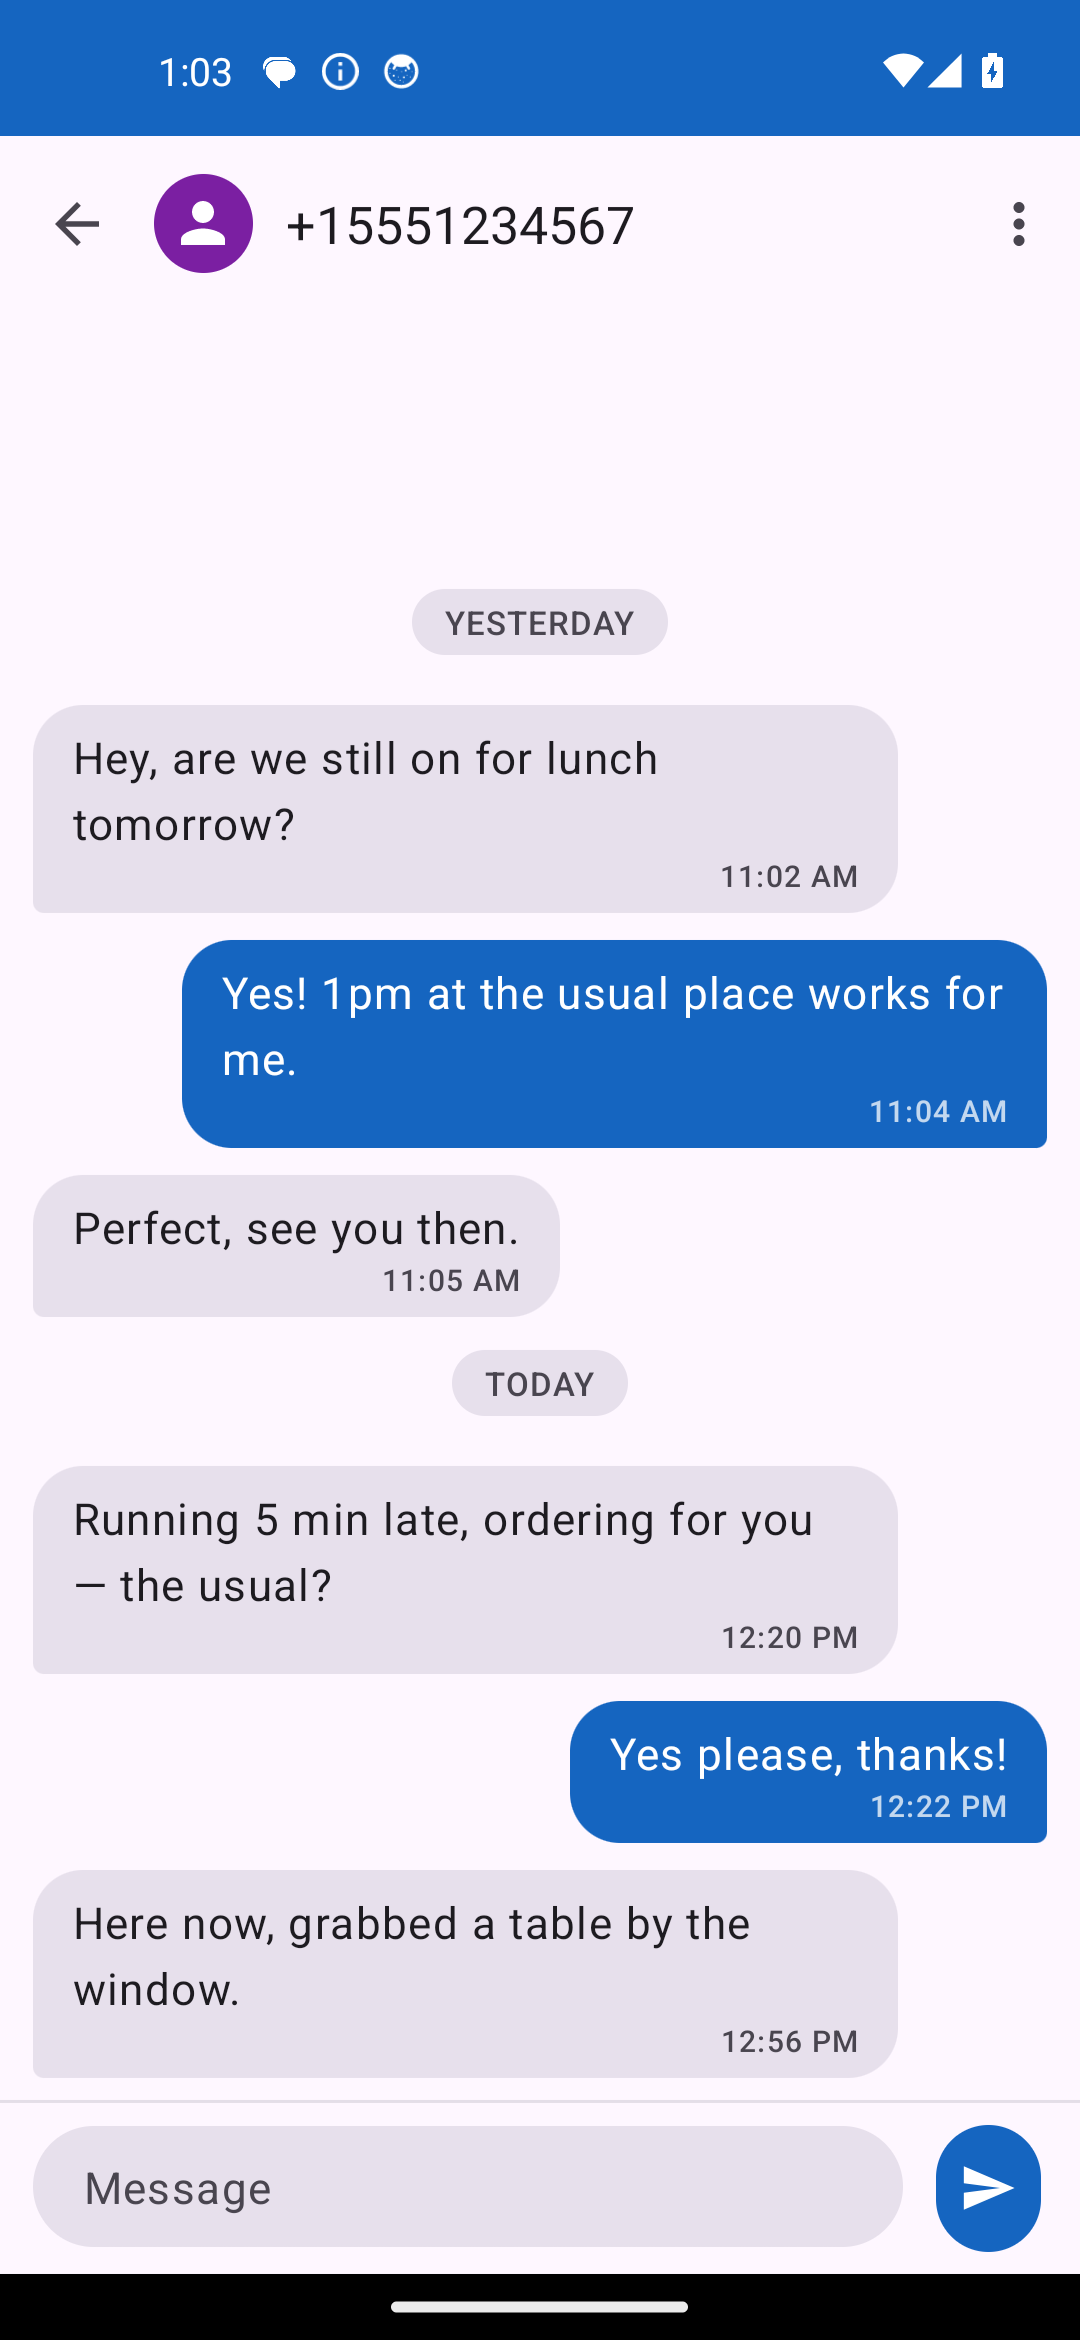
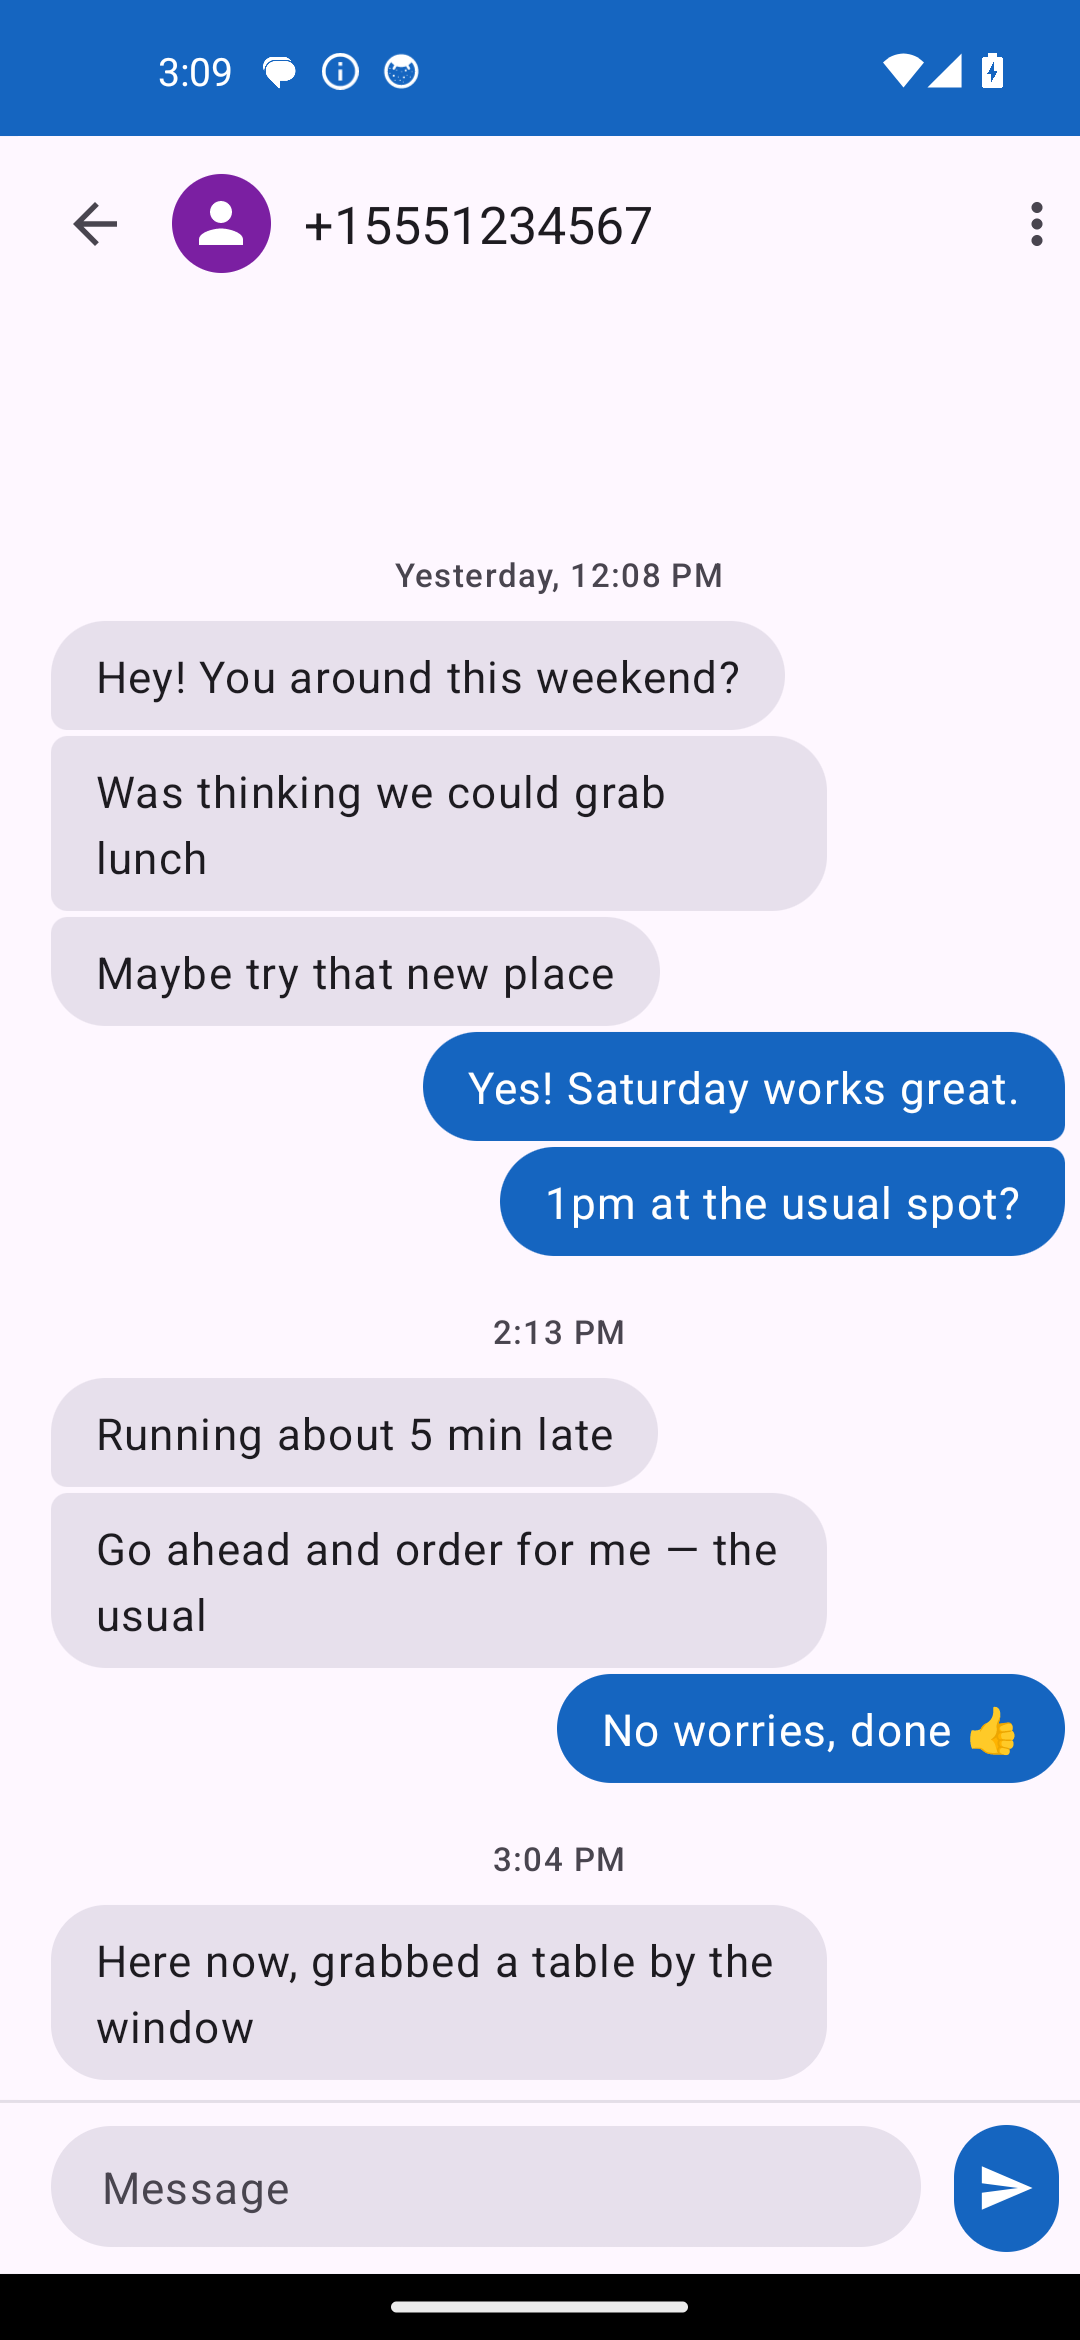
Rework the chat thread to a Google Messages style
- Consecutive same-side messages within a time cluster now group into one
  connected shape: the free side is fully rounded, and on the spine side only
  the first message rounds its top and the last rounds its bottom (corners
  built programmatically per message).
- A centered time separator ("Yesterday, 12:08 PM", "2:13 PM", …) starts each
  cluster — a new day or a gap over 15 min — replacing the timestamp that used
  to sit in every bubble.
- Larger radius, tighter in-group spacing; removed the now-unused static bubble
  drawables.

Bumps ippu to v1.21 (22).

diff --git a/app/src/main/kotlin/com/noti/logger/ui/ChatActivity.kt b/app/src/main/kotlin/com/noti/logger/ui/ChatActivity.kt
@@ -7,6 +7,7 @@ import android.content.ClipboardManager
 import android.content.Context
 import android.content.Intent
 import android.graphics.Color
+import android.graphics.drawable.GradientDrawable
 import android.os.Bundle
 import android.view.Gravity
 import android.view.LayoutInflater
@@ -15,11 +16,9 @@ import android.view.MenuItem
 import android.view.View
 import android.view.ViewGroup
 import android.widget.FrameLayout
-import android.widget.LinearLayout
 import android.widget.TextView
 import android.widget.Toast
 import androidx.appcompat.app.AppCompatActivity
-import androidx.core.graphics.ColorUtils
 import androidx.core.view.ViewCompat
 import androidx.core.view.WindowInsetsCompat
 import androidx.lifecycle.lifecycleScope
@@ -215,10 +214,14 @@ class ChatActivity : AppCompatActivity() {
             .show()
     }
 
-    /** A chat row is either a day separator or a message bubble. */
+    /** A chat row is either a centered time separator or a message bubble (with its group position). */
     private sealed interface Row {
-        data class Day(val label: String) : Row
-        data class Msg(val message: RelayedMessageEntity) : Row
+        data class Separator(val label: String) : Row
+        data class Msg(
+            val message: RelayedMessageEntity,
+            val firstInGroup: Boolean,
+            val lastInGroup: Boolean,
+        ) : Row
     }
 
     private inner class MessageAdapter : RecyclerView.Adapter<RecyclerView.ViewHolder>() {
@@ -227,19 +230,28 @@ class ChatActivity : AppCompatActivity() {
         /** When set, the matching row flashes once on bind then clears (notification deep-link). */
         var flashId: Long = -1L
 
-        /** Rebuilds the row list, inserting a day separator whenever the calendar day changes. */
+        /**
+         * Rebuilds the rows Google-Messages style: a centered time separator starts each cluster (new
+         * day or a gap over [CLUSTER_GAP_MS]); consecutive same-side messages inside a cluster are a
+         * "group" whose bubbles share connected corners.
+         */
         fun submit(messages: List<RelayedMessageEntity>) {
             rows.clear()
-            var lastAt = 0L
-            for (m in messages) {
-                if (rows.isEmpty() || !ChatTime.sameDay(lastAt, m.receivedAt)) {
-                    rows.add(Row.Day(ChatTime.daySeparator(this@ChatActivity, m.receivedAt)))
-                }
-                rows.add(Row.Msg(m))
-                lastAt = m.receivedAt
+            messages.forEachIndexed { i, m ->
+                val prev = messages.getOrNull(i - 1)
+                val next = messages.getOrNull(i + 1)
+                val newCluster = prev == null || startsNewCluster(prev, m)
+                if (newCluster) rows.add(Row.Separator(ChatTime.clusterHeader(this@ChatActivity, m.receivedAt)))
+                val firstInGroup = newCluster || prev!!.outgoing != m.outgoing
+                val lastInGroup = next == null || startsNewCluster(m, next) || next.outgoing != m.outgoing
+                rows.add(Row.Msg(m, firstInGroup, lastInGroup))
             }
             notifyDataSetChanged()
         }
+
+        private fun startsNewCluster(prev: RelayedMessageEntity, m: RelayedMessageEntity): Boolean =
+            !ChatTime.sameDay(prev.receivedAt, m.receivedAt) ||
+                (m.receivedAt - prev.receivedAt) > CLUSTER_GAP_MS
 
         fun rowIndexOfMessage(id: Long) =
             rows.indexOfFirst { it is Row.Msg && it.message.id == id }
@@ -247,12 +259,12 @@ class ChatActivity : AppCompatActivity() {
         override fun getItemCount() = rows.size
 
         override fun getItemViewType(position: Int) =
-            if (rows[position] is Row.Day) TYPE_DAY else TYPE_MSG
+            if (rows[position] is Row.Separator) TYPE_SEPARATOR else TYPE_MSG
 
         override fun onCreateViewHolder(parent: ViewGroup, viewType: Int): RecyclerView.ViewHolder {
             val inflater = LayoutInflater.from(parent.context)
-            return if (viewType == TYPE_DAY) {
-                DayVH(inflater.inflate(R.layout.item_date_header, parent, false))
+            return if (viewType == TYPE_SEPARATOR) {
+                SeparatorVH(inflater.inflate(R.layout.item_date_header, parent, false))
             } else {
                 MessageVH(inflater.inflate(R.layout.item_message, parent, false))
             }
@@ -260,53 +272,66 @@ class ChatActivity : AppCompatActivity() {
 
         override fun onBindViewHolder(holder: RecyclerView.ViewHolder, position: Int) {
             when (val row = rows[position]) {
-                is Row.Day -> (holder as DayVH).date.text = row.label
-                is Row.Msg -> {
-                    val prev = rows.getOrNull(position - 1)
-                    val grouped = prev is Row.Msg && prev.message.outgoing == row.message.outgoing
-                    bindMessage(holder as MessageVH, row.message, grouped)
-                }
+                is Row.Separator -> (holder as SeparatorVH).date.text = row.label
+                is Row.Msg -> bindMessage(holder as MessageVH, row)
             }
         }
     }
 
-    private fun bindMessage(holder: MessageVH, m: RelayedMessageEntity, groupedWithPrev: Boolean) {
+    private fun bindMessage(holder: MessageVH, row: Row.Msg) {
+        val m = row.message
         val outgoing = m.outgoing != 0
         holder.body.text = m.body
-        holder.time.text = ChatTime.clock(this, m.receivedAt)
-        holder.bubble.setBackgroundResource(if (outgoing) R.drawable.bubble_out else R.drawable.bubble_in)
-        (holder.bubble.layoutParams as FrameLayout.LayoutParams).gravity =
+
+        val metrics = resources.displayMetrics
+        holder.body.maxWidth = (metrics.widthPixels * 0.80f).toInt() - (32f * metrics.density).toInt()
+        (holder.body.layoutParams as FrameLayout.LayoutParams).gravity =
             if (outgoing) Gravity.END else Gravity.START
 
-        // Cap the bubble to ~80% of the screen (LinearLayout ignores maxWidth, so bound the text).
-        val metrics = resources.displayMetrics
-        holder.body.maxWidth = (metrics.widthPixels * 0.80f).toInt() - (28f * metrics.density).toInt()
-
-        // Tighter spacing within a run from the same side, more air when the side changes.
-        val h = (12f * metrics.density).toInt()
-        val topGap = ((if (groupedWithPrev) 2f else 8f) * metrics.density).toInt()
-        holder.itemView.setPadding(h, topGap, h, (2f * metrics.density).toInt())
-
-        // On the accent outgoing bubble, text is white; incoming uses on-surface tones.
-        val bodyColor = MaterialColors.getColor(
+        val fill = MaterialColors.getColor(
+            holder.body,
+            if (outgoing) com.google.android.material.R.attr.colorPrimary
+            else com.google.android.material.R.attr.colorSurfaceVariant,
+        )
+        val text = MaterialColors.getColor(
             holder.body,
             if (outgoing) com.google.android.material.R.attr.colorOnPrimary
             else com.google.android.material.R.attr.colorOnSurface,
         )
-        val timeColor = MaterialColors.getColor(
-            holder.time,
-            if (outgoing) com.google.android.material.R.attr.colorOnPrimary
-            else com.google.android.material.R.attr.colorOnSurfaceVariant,
-        )
-        holder.body.setTextColor(bodyColor)
-        holder.time.setTextColor(if (outgoing) ColorUtils.setAlphaComponent(timeColor, 190) else timeColor)
+        holder.body.setTextColor(text)
+        holder.body.background = groupedBubble(outgoing, row.firstInGroup, row.lastInGroup, fill)
 
-        holder.bubble.setOnLongClickListener { onMessageLongPress(m); true }
+        holder.body.setOnLongClickListener { onMessageLongPress(m); true }
         if (m.id == adapter.flashId) {
             adapter.flashId = -1L
             flash(holder.itemView)
         } else {
             holder.itemView.setBackgroundColor(Color.TRANSPARENT)
+        }
+    }
+
+    /**
+     * Builds a bubble background whose corners connect within a same-side group: the "free" side is
+     * always fully rounded; on the spine side, the top rounds only for the first message and the
+     * bottom only for the last, so a run of messages reads as one shape (Google Messages).
+     */
+    private fun groupedBubble(outgoing: Boolean, first: Boolean, last: Boolean, fill: Int): GradientDrawable {
+        val d = resources.displayMetrics.density
+        val big = 20f * d
+        val small = 6f * d
+        val topSpine = if (first) big else small
+        val botSpine = if (last) big else small
+        val radii = if (outgoing) {
+            // spine = right edge
+            floatArrayOf(big, big, topSpine, topSpine, botSpine, botSpine, big, big)
+        } else {
+            // spine = left edge
+            floatArrayOf(topSpine, topSpine, big, big, big, big, botSpine, botSpine)
+        }
+        return GradientDrawable().apply {
+            shape = GradientDrawable.RECTANGLE
+            cornerRadii = radii
+            setColor(fill)
         }
     }
 
@@ -321,12 +346,10 @@ class ChatActivity : AppCompatActivity() {
     }
 
     private inner class MessageVH(v: View) : RecyclerView.ViewHolder(v) {
-        val bubble: LinearLayout = v.findViewById(R.id.bubble)
         val body: TextView = v.findViewById(R.id.txt_body)
-        val time: TextView = v.findViewById(R.id.txt_time)
     }
 
-    private inner class DayVH(v: View) : RecyclerView.ViewHolder(v) {
+    private inner class SeparatorVH(v: View) : RecyclerView.ViewHolder(v) {
         val date: TextView = v.findViewById(R.id.txt_date)
     }
 
@@ -334,7 +357,8 @@ class ChatActivity : AppCompatActivity() {
         const val EXTRA_SENDER = "sender"
         const val EXTRA_HIGHLIGHT_ID = "highlight_id"
         private const val MENU_DELETE = 1
-        private const val TYPE_DAY = 0
+        private const val TYPE_SEPARATOR = 0
         private const val TYPE_MSG = 1
+        private const val CLUSTER_GAP_MS = 15 * 60 * 1000L
     }
 }

diff --git a/app/src/main/kotlin/com/noti/logger/util/ChatTime.kt b/app/src/main/kotlin/com/noti/logger/util/ChatTime.kt
@@ -7,9 +7,28 @@ import java.util.Calendar
 /** Timestamp formatting for the chat list, bubbles, and day separators (Signal-like). */
 object ChatTime {
 
-    /** Short clock time, e.g. "10:24 AM" — used inside message bubbles. */
+    /** Short clock time, e.g. "10:24 AM". */
     fun clock(context: Context, millis: Long): String =
         DateUtils.formatDateTime(context, millis, DateUtils.FORMAT_SHOW_TIME)
+
+    /**
+     * The centered separator shown above a cluster of messages, Google-Messages style: just the time
+     * today, "Yesterday, 9:41 AM", "Mon, 9:41 AM" within the week, else "Jul 4, 9:41 AM".
+     */
+    fun clusterHeader(context: Context, millis: Long): String {
+        val time = clock(context, millis)
+        return when {
+            isToday(millis) -> time
+            isYesterday(millis) -> "${context.getString(com.noti.logger.R.string.date_yesterday)}, $time"
+            withinDays(millis, 7) ->
+                DateUtils.formatDateTime(context, millis, DateUtils.FORMAT_SHOW_WEEKDAY or DateUtils.FORMAT_ABBREV_WEEKDAY) + ", " + time
+            else -> {
+                var flags = DateUtils.FORMAT_SHOW_DATE or DateUtils.FORMAT_ABBREV_MONTH
+                if (!sameYear(millis, System.currentTimeMillis())) flags = flags or DateUtils.FORMAT_SHOW_YEAR
+                DateUtils.formatDateTime(context, millis, flags) + ", " + time
+            }
+        }
+    }
 
     /** Conversation-list stamp: time if today, "Yesterday", weekday if this week, else a short date. */
     fun listStamp(context: Context, millis: Long): String = when {
@@ -27,6 +46,12 @@ object ChatTime {
             context, millis,
             DateUtils.FORMAT_SHOW_DATE or DateUtils.FORMAT_SHOW_WEEKDAY or DateUtils.FORMAT_ABBREV_MONTH
         )
+    }
+
+    private fun sameYear(a: Long, b: Long): Boolean {
+        val ca = Calendar.getInstance().apply { timeInMillis = a }
+        val cb = Calendar.getInstance().apply { timeInMillis = b }
+        return ca.get(Calendar.YEAR) == cb.get(Calendar.YEAR)
     }
 
     /** True when [a] and [b] fall on the same calendar day. */
